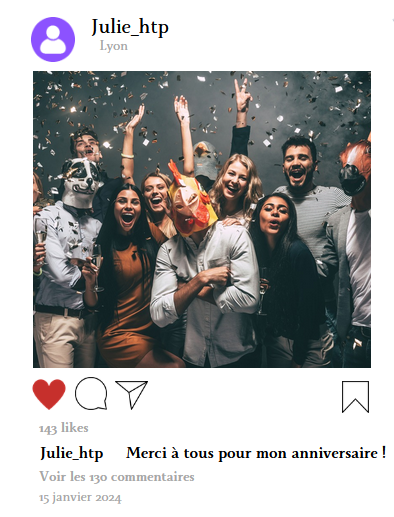
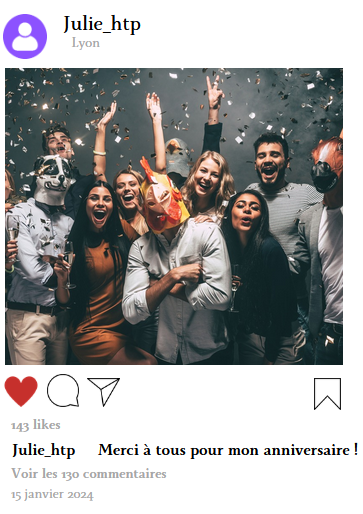
fixImagesGribouille

diff --git a/src/app/minijeux/cyber-game/cyber-game.component.html b/src/app/minijeux/cyber-game/cyber-game.component.html
@@ -6,9 +6,9 @@
     <h6 class="center-align">En explorant les réseaux sociaux, vous découvrez trois postes de Julie. Aidez-vous de ces postes pour découvrir son mot de passe !</h6>
     <div id="row">  
         <div class="container">
-            <img class="images" src="../assets/santorin.png" width="31%" height="500px">
-            <img class="images" src="../assets/gribouille.png" width="31%" height="500px">
-            <img class="images" src="../assets/anniversaire.png" width="31%" height="500px">
+            <img class="images" src="../assets/santorin.png" width="31%">
+            <img class="images" src="../assets/gribouille.png" width="31%">
+            <img class="images" src="../assets/anniversaire.png" width="31%">
         </div>
     </div>
     <mat-form-field style="width: 50%; margin-left: 25%;">
